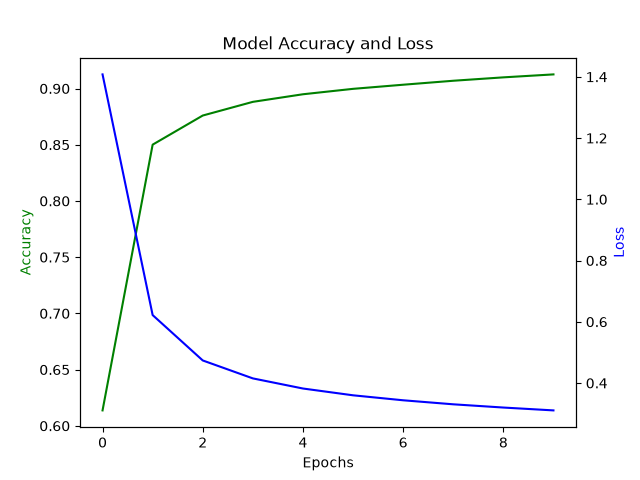
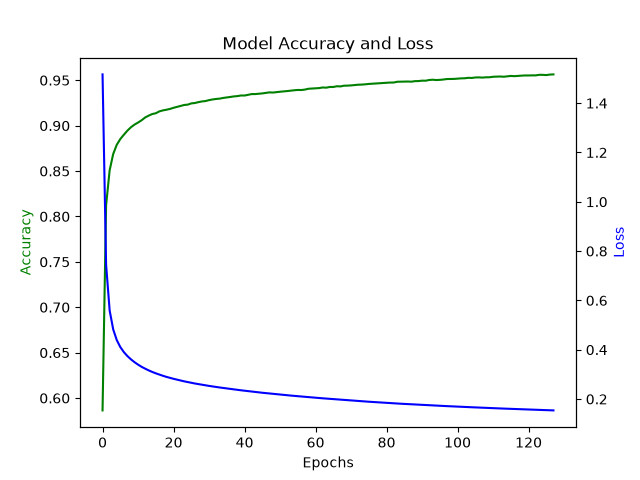
Improved code comments, and changed the parameters

diff --git a/neuralModelExercise.py b/neuralModelExercise.py
@@ -8,9 +8,10 @@ import matplotlib.pyplot as plt #<-- Needed for visualization
 # load the MNIST dataset which is luckily stored in keras
 (X_train, y_train), (X_test, y_test) = mnist.load_data()
 
-# I still don't understand this pass
+# Flatten the input to a 784 long array
 X_train = X_train.reshape((X_train.shape[0], 28 * 28))
 X_test = X_test.reshape((X_test.shape[0], 28 * 28))
+
 
 # Convert from integer to float as it is the format better supported by keras
 X_train = X_train.astype('float32')
@@ -26,20 +27,20 @@ y_train = to_categorical(y_train)
 y_test = to_categorical(y_test)
 
 # define the model
-N = 32 # number of neurons in the hidden layer
+N = 16 # number of neurons in the hidden layer
 model = Sequential()
 
-# the shape of the input is defined, so that the weights can be defined
+# the shape of the input is defined, so that the input neurons can be defined
 model.add(Input(shape=(28 * 28,)))
 model.add(Dense(N, activation='relu'))
-model.add(Dense(10, activation='softmax')) #we use softmax as said before for that reasons
+model.add(Dense(len(y_train[0]), activation='softmax')) #we use softmax as said before for that reasons
 
 # compile the model
 sgd = SGD(learning_rate=0.01) # Define how fast the stochastic gradient descents, converges
 model.compile(loss='categorical_crossentropy', optimizer=sgd, metrics=['accuracy']) # <-- still to understand
 
 # fit the model, define the epoch, and the number of sample taken before it's time to update the weight
-history = model.fit(X_train, y_train, epochs=10, batch_size=128)
+history = model.fit(X_train, y_train, epochs=128, batch_size=128)
 
 # evaluate the model
 loss, accuracy = model.evaluate(X_test, y_test, verbose=0)
@@ -57,3 +58,4 @@ ax2.set_ylabel('Loss', color='b')
 plt.title('Model Accuracy and Loss')
 plt.show()
 plt.savefig('model_accuracy_loss.png') # To save the image in case the OS doesn't support a visualizer
+
